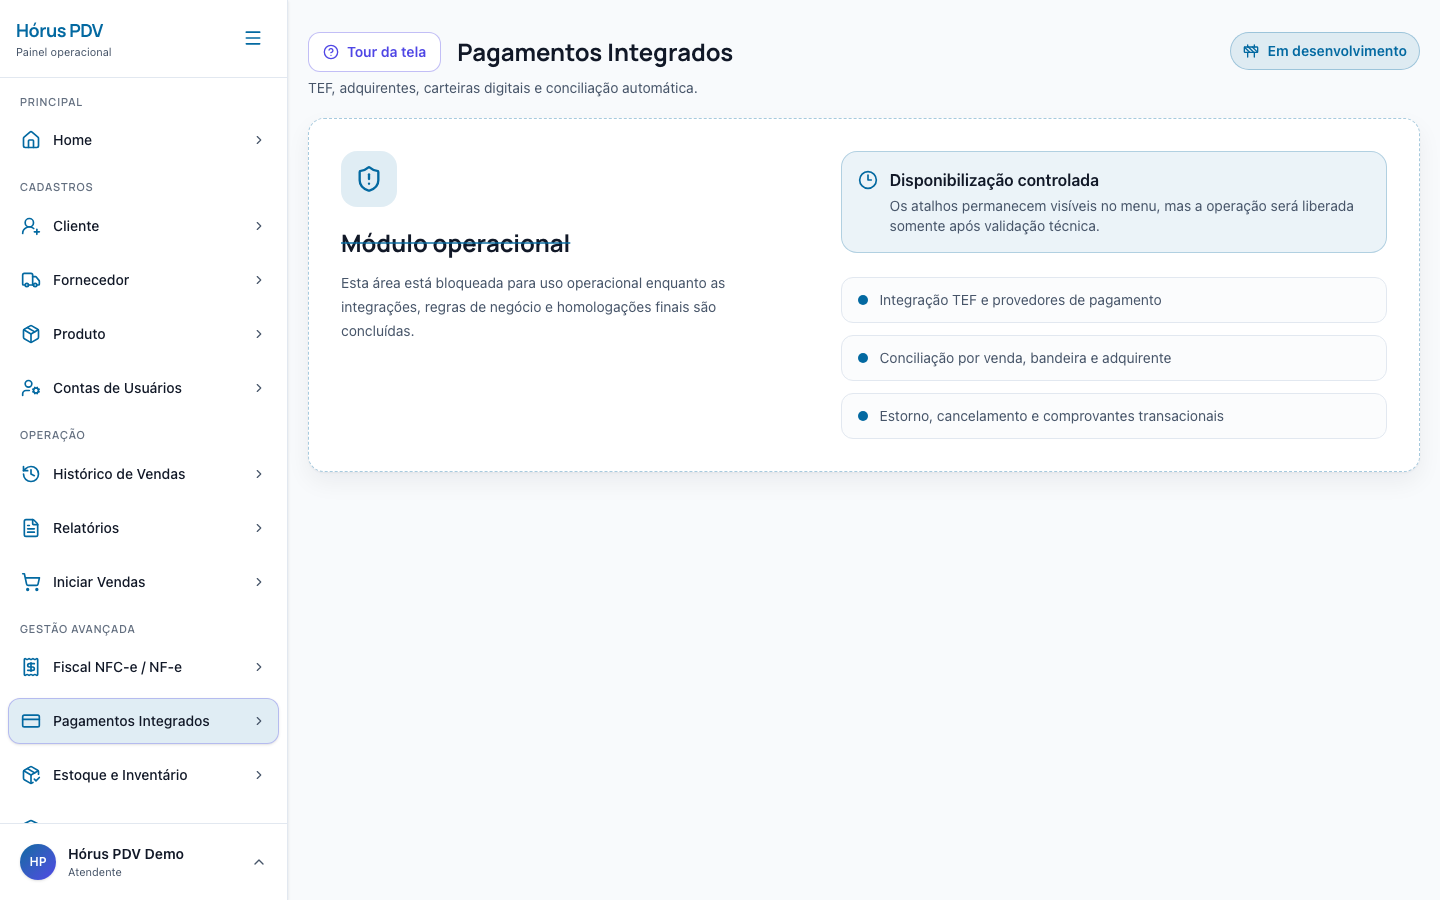
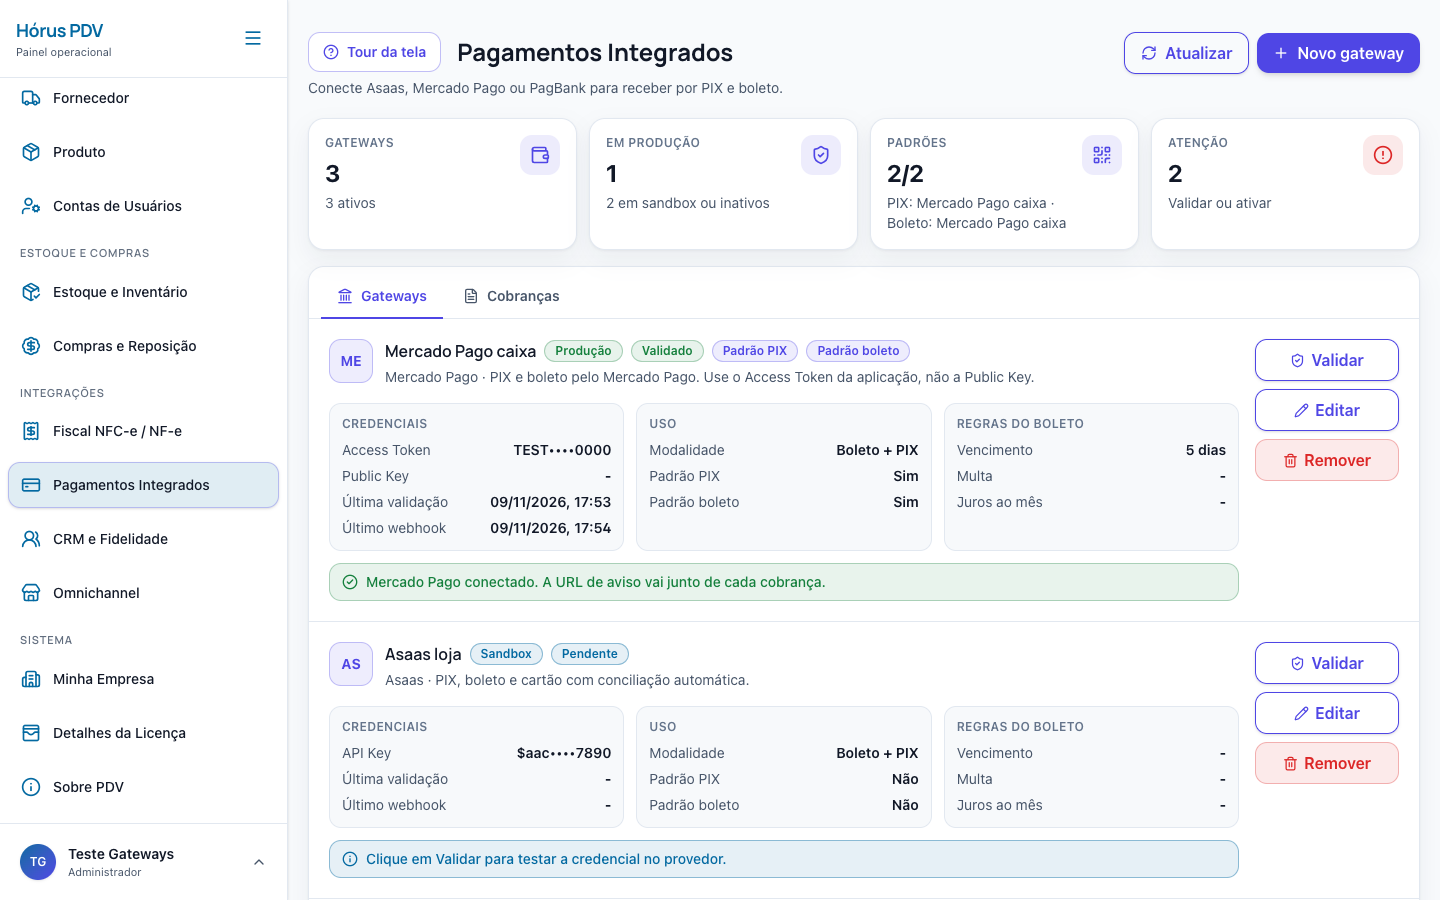
docs(pagamentos): atualizar print, landing e legenda do demo
A tela de Pagamentos Integrados deixou de ser placeholder: o print do README
e da landing passa a mostrar os gateways, e o roadmap da landing e a legenda
do vídeo demo descrevem o PIX/boleto já disponíveis.

diff --git a/FRONTEND/tests/demo/horus-pdv.demo.spec.ts b/FRONTEND/tests/demo/horus-pdv.demo.spec.ts
@@ -132,7 +132,7 @@ async function walkthroughCorePages(page: Page) {
     ["conta-de-usuario", "Usuários", "Gestão de contas e permissões"],
     ["configuracoes", "Configurações", "Preferências do PDV"],
     ["fiscal", "Fiscal NFC-e / NF-e", "Módulo fiscal marcado como em desenvolvimento"],
-    ["pagamentos", "Pagamentos Integrados", "Pagamentos integrados marcados como em desenvolvimento"],
+    ["pagamentos", "Pagamentos Integrados", "Gateways Asaas, Mercado Pago e PagBank para PIX e boleto"],
   ] as const;
 
   for (const [key, title, text] of pages) {

diff --git a/docs/index.html b/docs/index.html
@@ -2345,7 +2345,7 @@ npm run dev</textarea>
                 </li>
                 <li>
                   <h3>Pagamentos integrados</h3>
-                  <p>TEF, adquirentes, conciliação e retorno de transação.</p>
+                  <p>PIX no caixa e boleto via Asaas, Mercado Pago e PagBank já funcionam. Próximos: estorno, TEF e conciliação de taxas.</p>
                 </li>
               </ul>
             </div>
